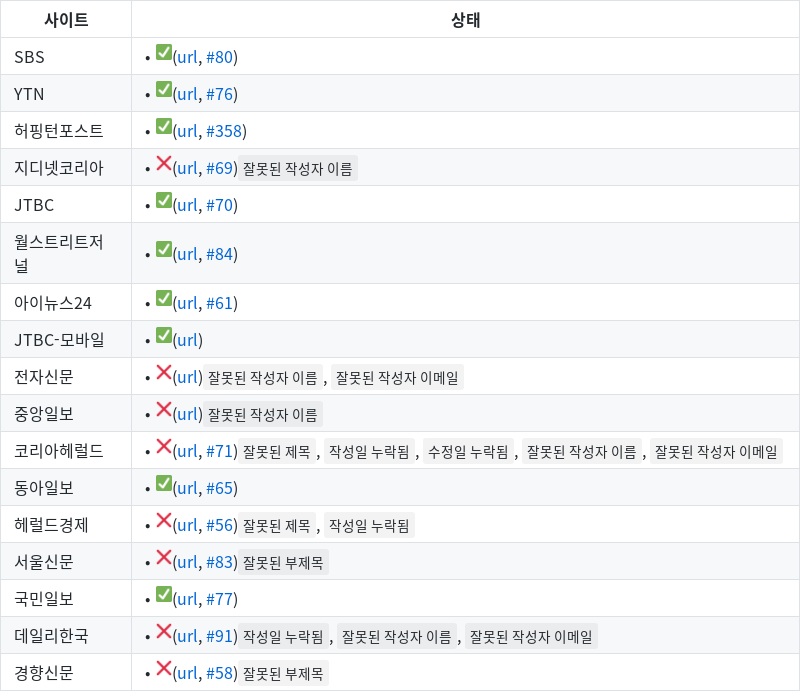
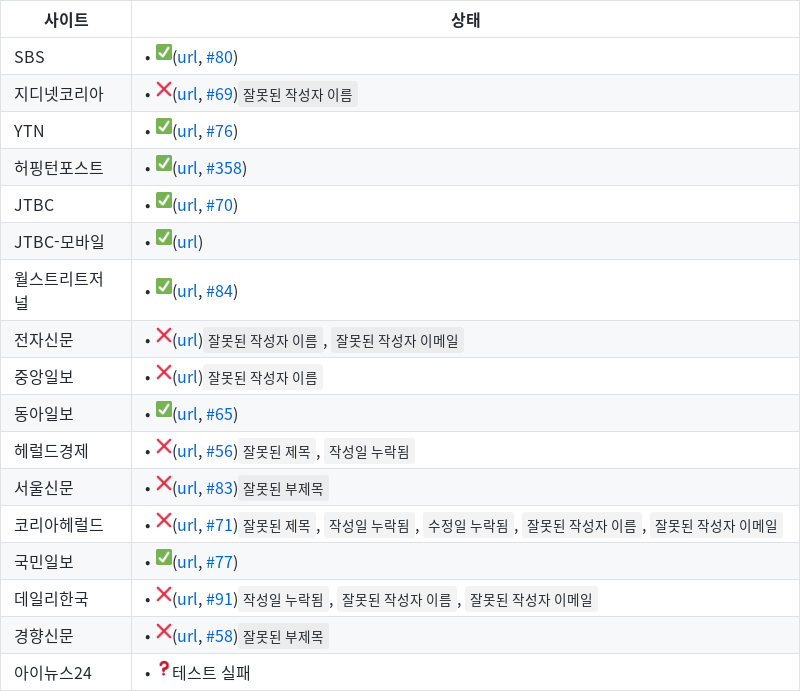
Wed Jan  8 00:09:03 UTC 2020

diff --git a/health-check.md b/health-check.md
@@ -1,19 +1,19 @@
 | 사이트 | 상태 |
 |------|-------|
 | SBS | • ✅([url](https://news.sbs.co.kr/news/endPage.do?news_id=N1002697236), [#80](https://github.com/disjukr/just-news/issues/#80)) |
+| 지디넷코리아 | • ❌([url](http://www.zdnet.co.kr/view/?no=20141104074223), [#69](https://github.com/disjukr/just-news/issues/#69))`잘못된 작성자 이름` |
 | YTN | • ✅([url](https://www.ytn.co.kr/_ln/0103_201411190800481989), [#76](https://github.com/disjukr/just-news/issues/#76)) |
 | 허핑턴포스트 | • ✅([url](https://www.huffingtonpost.kr/entry/story_kr_5d36a558e4b004b6adb5029c?9e4), [#358](https://github.com/disjukr/just-news/issues/#358)) |
-| 지디넷코리아 | • ❌([url](http://www.zdnet.co.kr/view/?no=20141104074223), [#69](https://github.com/disjukr/just-news/issues/#69))`잘못된 작성자 이름` |
 | JTBC | • ✅([url](http://news.jtbc.joins.com/article/article.aspx?news_id=NB10639468), [#70](https://github.com/disjukr/just-news/issues/#70)) |
-| 월스트리트저널 | • ✅([url](https://realtime.wsj.com/korea/2014/10/13/%EB%B0%95%EC%9B%90%EC%88%9C-%EC%84%9C%EC%9A%B8%EC%8B%9C%EC%9E%A5-%EB%AF%B8%EA%B5%AD-%EC%96%B8%EB%A1%A0%EC%97%90-%EB%8F%99%EC%84%B1%EA%B2%B0%ED%98%BC-%EC%A7%80%EC%A7%80-%EB%B0%9C%EC%96%B8/), [#84](https://github.com/disjukr/just-news/issues/#84)) |
-| 아이뉴스24 | • ✅([url](http://www.inews24.com/view/860573), [#61](https://github.com/disjukr/just-news/issues/#61)) |
 | JTBC-모바일 | • ✅([url](http://mnews.jtbc.joins.com/News/Article.aspx?news_id=NB11866214)) |
+| 월스트리트저널 | • ✅([url](https://realtime.wsj.com/korea/2014/10/13/%EB%B0%95%EC%9B%90%EC%88%9C-%EC%84%9C%EC%9A%B8%EC%8B%9C%EC%9E%A5-%EB%AF%B8%EA%B5%AD-%EC%96%B8%EB%A1%A0%EC%97%90-%EB%8F%99%EC%84%B1%EA%B2%B0%ED%98%BC-%EC%A7%80%EC%A7%80-%EB%B0%9C%EC%96%B8/), [#84](https://github.com/disjukr/just-news/issues/#84)) |
 | 전자신문 | • ❌([url](http://www.etnews.com/20191031000370?mc=ns_003_00006))`잘못된 작성자 이름`, `잘못된 작성자 이메일` |
 | 중앙일보 | • ❌([url](https://news.joins.com/article/23621286))`잘못된 작성자 이름` |
-| 코리아헤럴드 | • ❌([url](http://khnews.kheraldm.com/view.php?ud=20141111001137&md=20141111180830_BK&kr=1), [#71](https://github.com/disjukr/just-news/issues/#71))`잘못된 제목`, `작성일 누락됨`, `수정일 누락됨`, `잘못된 작성자 이름`, `잘못된 작성자 이메일` |
 | 동아일보 | • ✅([url](http://news.donga.com/3/03/20141107/67723014/1), [#65](https://github.com/disjukr/just-news/issues/#65)) |
 | 헤럴드경제 | • ❌([url](http://news.heraldcorp.com/view.php?ud=20141023000202&md=20141023091209_BK), [#56](https://github.com/disjukr/just-news/issues/#56))`잘못된 제목`, `작성일 누락됨` |
 | 서울신문 | • ❌([url](http://seoul.co.kr/news/newsView.php?id=20141204500025), [#83](https://github.com/disjukr/just-news/issues/#83))`잘못된 부제목` |
+| 코리아헤럴드 | • ❌([url](http://khnews.kheraldm.com/view.php?ud=20141111001137&md=20141111180830_BK&kr=1), [#71](https://github.com/disjukr/just-news/issues/#71))`잘못된 제목`, `작성일 누락됨`, `수정일 누락됨`, `잘못된 작성자 이름`, `잘못된 작성자 이메일` |
 | 국민일보 | • ✅([url](http://news.kmib.co.kr/article/view.asp?arcid=0008864720&code=61121111), [#77](https://github.com/disjukr/just-news/issues/#77)) |
 | 데일리한국 | • ❌([url](http://daily.hankooki.com/lpage/politics/201412/dh20141219103740137430.htm), [#91](https://github.com/disjukr/just-news/issues/#91))`작성일 누락됨`, `잘못된 작성자 이름`, `잘못된 작성자 이메일` |
 | 경향신문 | • ❌([url](http://biz.khan.co.kr/khan_art_view.html?artid=201410311921301&code=920100&med=khan), [#58](https://github.com/disjukr/just-news/issues/#58))`잘못된 부제목` |
+| 아이뉴스24 | • ❓테스트 실패 |
